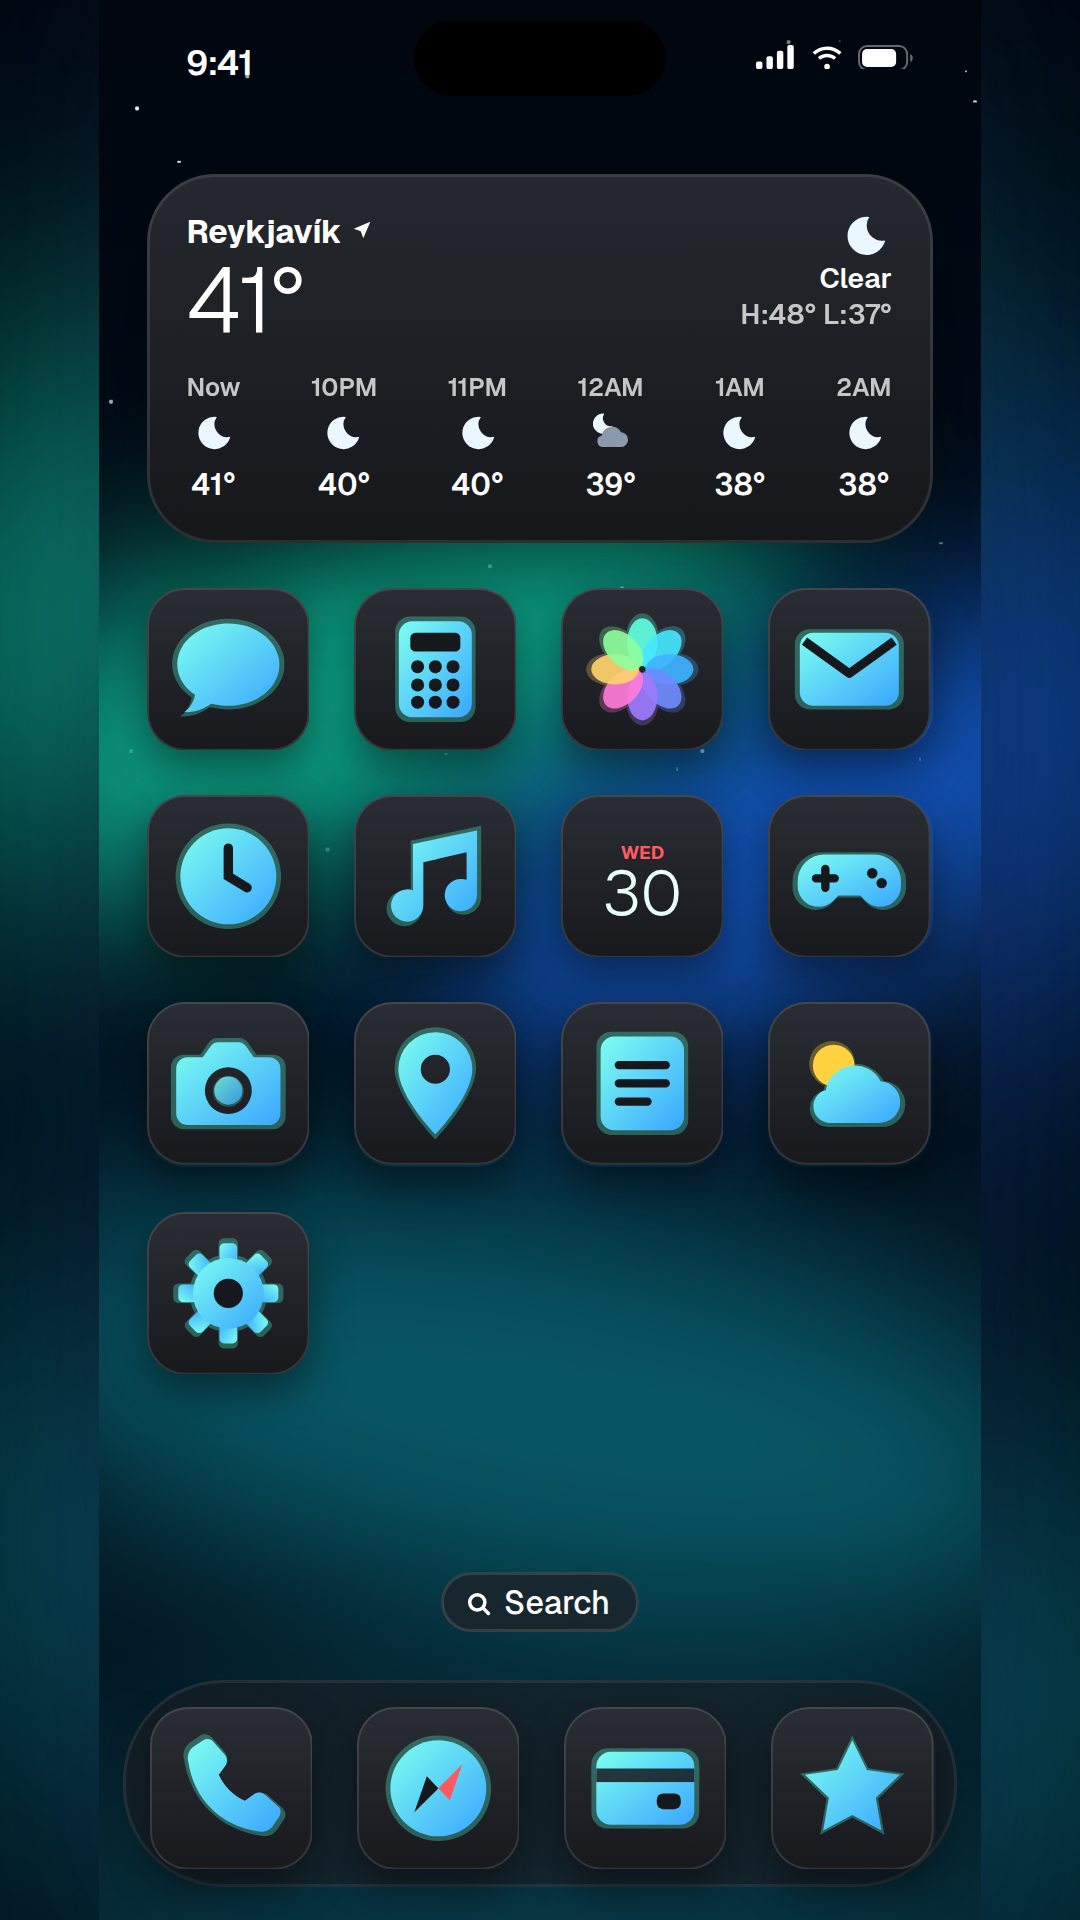
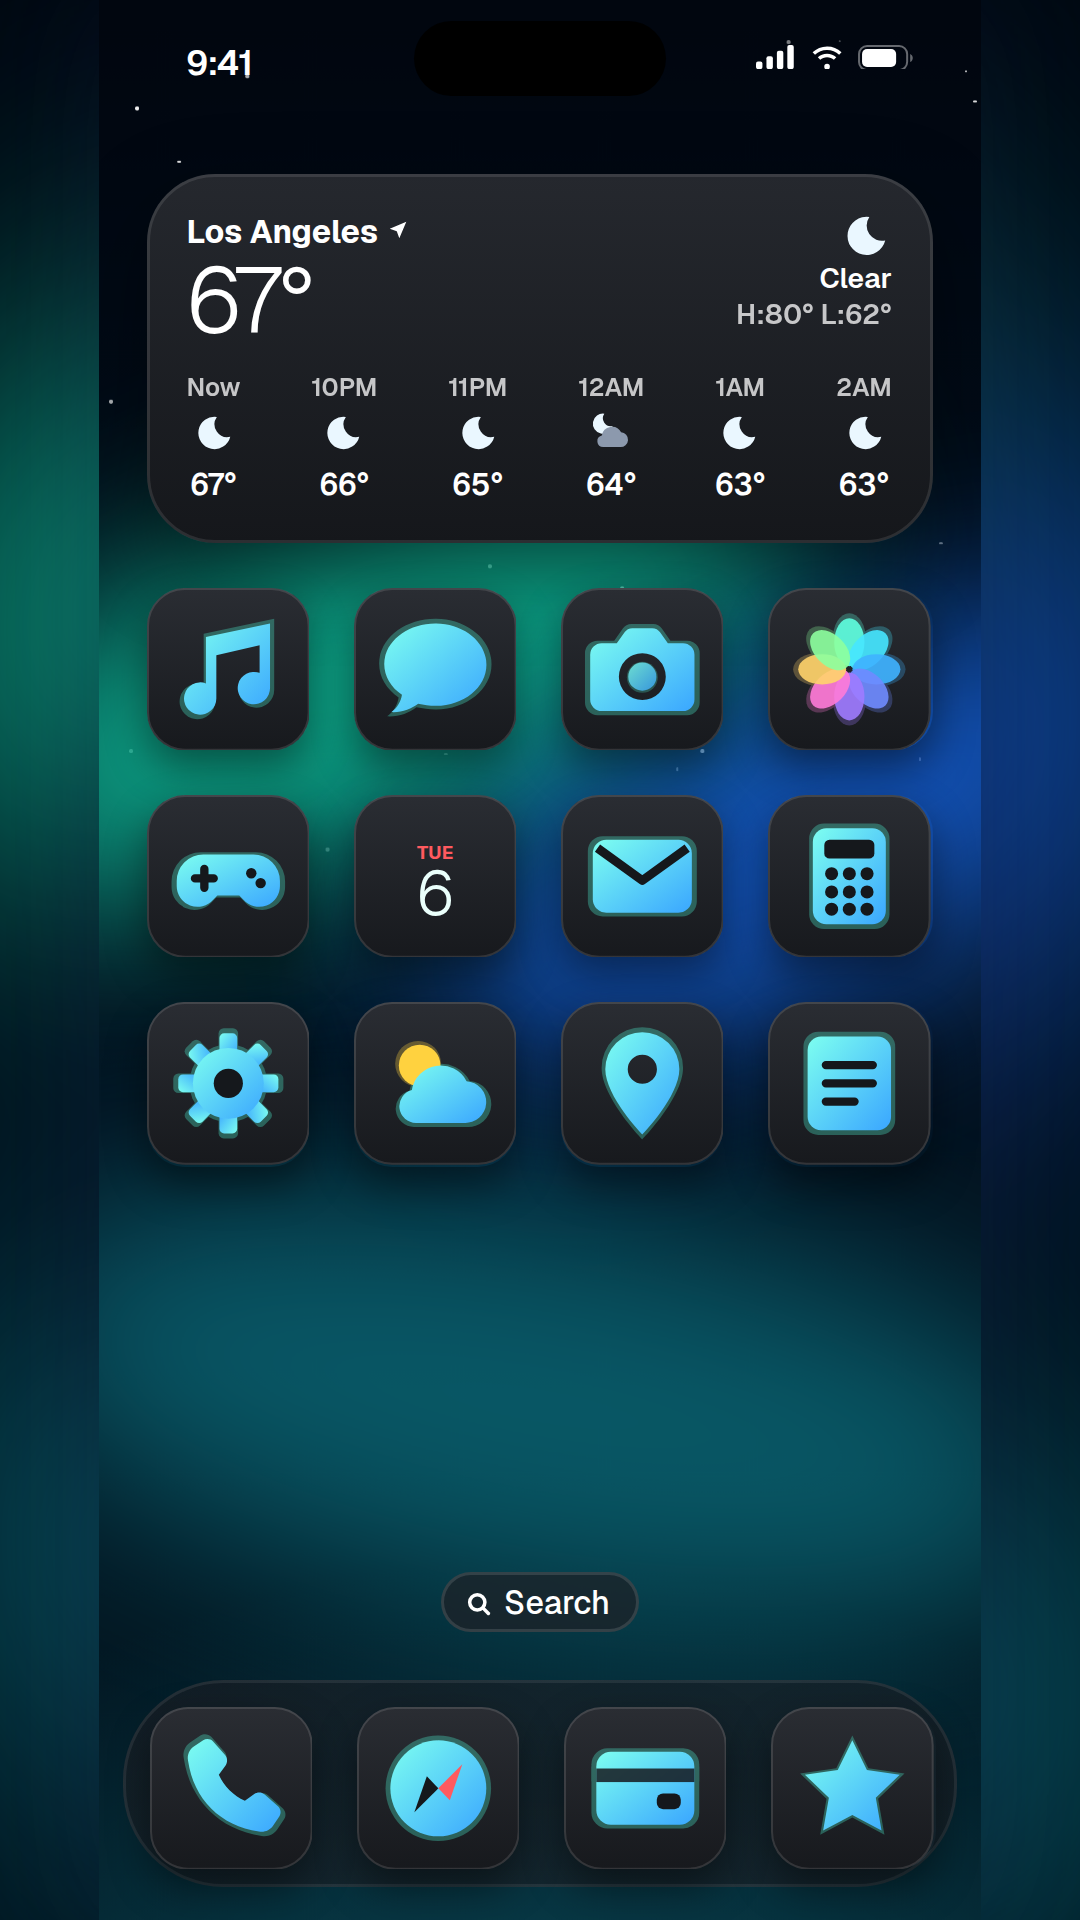
Aero Night sample weather: Los Angeles instead of Reykjavik
Claude-Session: https://claude.ai/code/session_01Mihd7xA5EMK35feCQrWH7f

diff --git a/src/components/widgets/weather-preview.tsx b/src/components/widgets/weather-preview.tsx
@@ -18,7 +18,7 @@ type Forecast = {
 
 /**
  * Typical late-September conditions for real cities, timed to the exports' 9:41 status bar:
- * a sunny San Diego morning for Aero, a clear aurora night in Reykjavík for Aero Night.
+ * a sunny San Diego morning for Aero, a clear Los Angeles night for Aero Night.
  */
 const DAY: Forecast = {
   city: 'San Diego',
@@ -38,19 +38,19 @@ const DAY: Forecast = {
 };
 
 const NIGHT: Forecast = {
-  city: 'Reykjavík',
-  temp: 41,
+  city: 'Los Angeles',
+  temp: 67,
   sky: 'moon',
   condition: 'Clear',
-  high: 48,
-  low: 37,
+  high: 80,
+  low: 62,
   hours: [
-    ['Now', 41, 'moon'],
-    ['10PM', 40, 'moon'],
-    ['11PM', 40, 'moon'],
-    ['12AM', 39, 'moonCloud'],
-    ['1AM', 38, 'moon'],
-    ['2AM', 38, 'moon'],
+    ['Now', 67, 'moon'],
+    ['10PM', 66, 'moon'],
+    ['11PM', 65, 'moon'],
+    ['12AM', 64, 'moonCloud'],
+    ['1AM', 63, 'moon'],
+    ['2AM', 63, 'moon'],
   ],
 };
 

diff --git a/README.md b/README.md
@@ -27,7 +27,7 @@ For day-to-day work, use the `development` build profile (dev client plus Metro)
   - **Weather** (small, medium): live WeatherKit forecast for a city you pick with Edit Widget, refreshed every 30 minutes. Needs WeatherKit ticked (Capabilities and App Services) for `com.jaylonwlv.y2khome.widget` at developer.apple.com.
 - The glass is a blurred crop of the wallpaper (Night's is opaque). *Edit Widget › Side / Starts on icon row*
   tells a widget where it sits. The grid comes from iOS 26 measurements (`src/lib/home-grid.ts`).
-- Previews and exports show sample weather for real cities (San Diego for Aero, Reykjavík for Aero Night).
+- Previews and exports show sample weather for real cities (San Diego for Aero, Los Angeles for Aero Night).
 
 ## Layout
 
